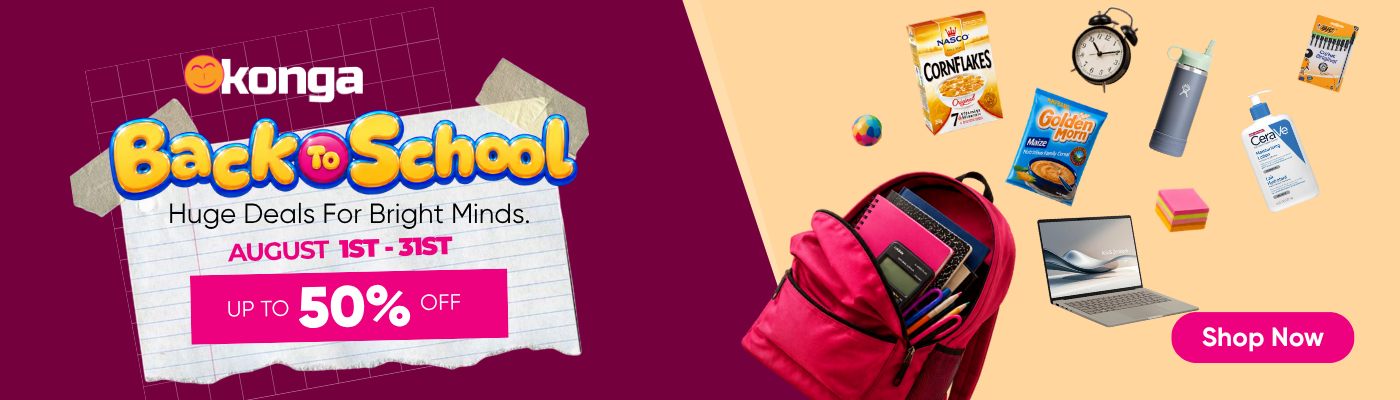
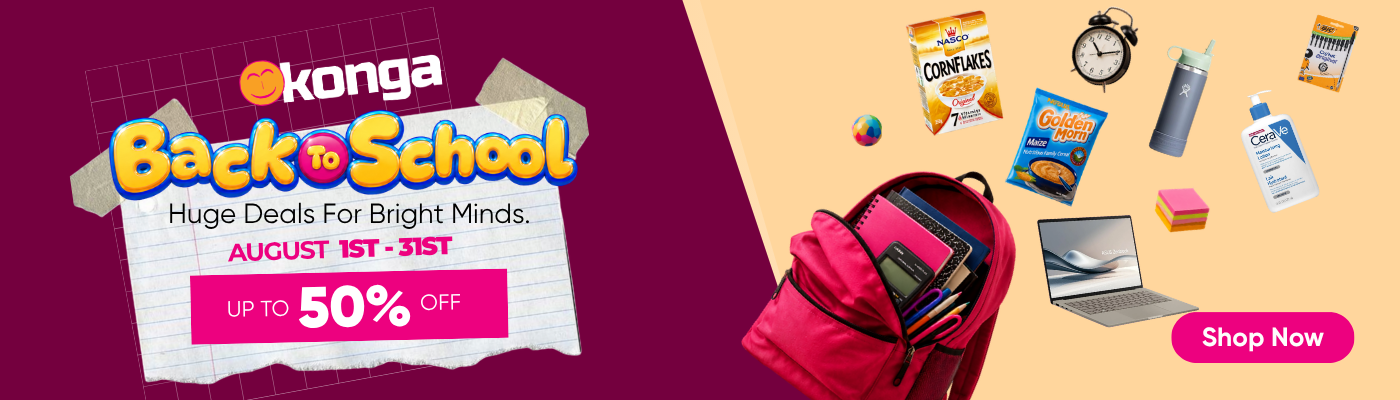
Update: Incorporate b2slogo and rate us GIFs

Changed region(s): [[0.1229, 0.12, 0.3379, 0.27]]

diff --git a/index.html b/index.html
@@ -799,7 +799,9 @@
     <!-- Transparent Navbar -->
     <header class="navbar">
       <div class="container navbar-container">
-        <div class="logo-wireframe">Logo</div>
+        <a href="#" class="logo-link">
+          <img src="./b2slogo.png" alt="Konga Back to School Logo" style="height: 40px; width: auto; display: block;" />
+        </a>
         <ul class="nav-items">
           <li><a href="#shop-by-category">Categories</a></li>
           <li><a href="#groceries">Groceries</a></li>
@@ -1407,13 +1409,15 @@
         </div>
       </section>
 
-      <!-- Rate Us App Banner Placeholder -->
+      <!-- Rate Us App Banner -->
       <section class="rate-app-section" id="rate-us">
         <div class="container">
-          <div class="rate-app-placeholder">
-            <span class="banner-dimension-tag">Banner Placeholder: 1400px × 200px (Mobile: 600px × 300px)</span>
-            <div class="banner-placeholder-label">RATE US ON APPSTORE & PLAYSTORE BANNER</div>
-          </div>
+          <a href="#" style="display: block; width: 100%; border-radius: 12px; overflow: hidden; box-shadow: 0 4px 16px rgba(116, 0, 62, 0.18);">
+            <picture>
+              <source media="(max-width: 768px)" srcset="./rate%20us%20mobile.gif" />
+              <img src="./rate%20us%20desktop.gif" alt="Rate Us on AppStore & PlayStore" style="width: 100%; height: auto; display: block;" />
+            </picture>
+          </a>
         </div>
       </section>
 
